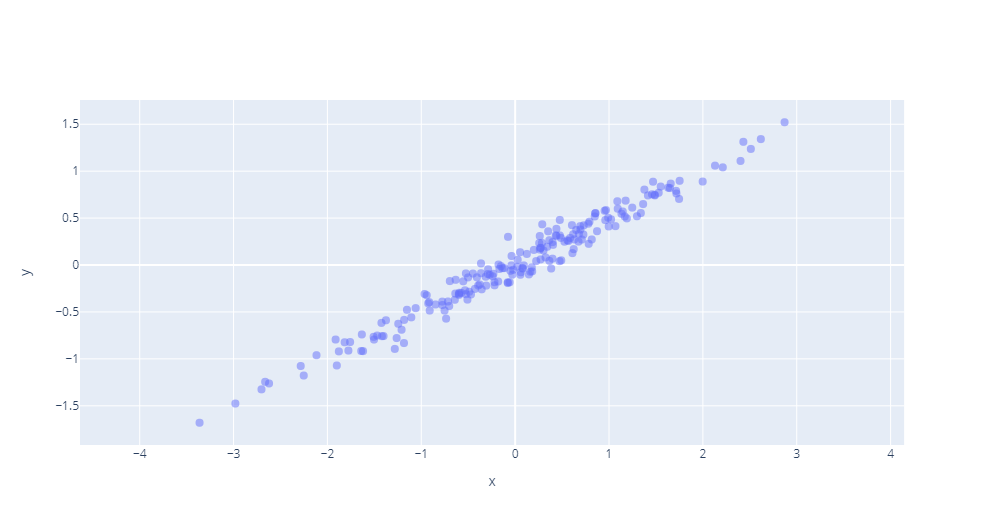
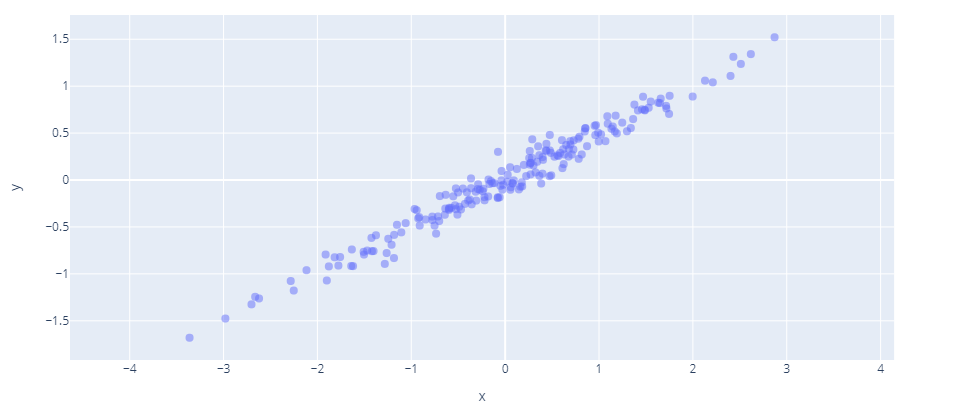
Add intro and crop imgs

diff --git a/Rapport.md b/Rapport.md
@@ -1,6 +1,12 @@
 # Reducing the Dimensionality of Data with Neural Networks
 
-by G. E. Hinton and R. R. Salakhutdinov
+
+
+<p style="text-align: center;">G. E. Hinton and R. R. Salakhutdinov</p>
+
+
+
+<p style="text-align: center;">Etude menée par DE SMET Enguerrand et FOUCHY Jules</p>
 
 ## Abstract
 
@@ -22,15 +28,21 @@ Enfin, nous allons comparer les résultats obtenus et conclure sur quelle est la
 
 ## Introduction
 
-**TODO**
+De nos jours, nous sommes amenés à manipuler toutes sortent de données. Que ce soit dans notre vie quotidienne via des photos par exemple ou alors dans un cadre professionnel pour de l'analyse et de la recherche par exemple.
+Toutes ces données peuvent parfois être conséquentes et nécessitent une compression avec le moins de perte possible pour leur stockage ou une synthèse de celles-ci afin être analysé efficacement et rapidement par la suite.
 
-- Presentation of the problem(s). 
+C'est tout l'enjeu de ce papier de recherche proposé par [G. E. Hinton et R. R. Salakhutdinov](www.cs.toronto.edu/~hinton/science.pdf)  sur la réduction de données et intitulé *"Reducing the Dimensionality of Data with Neural Networks"*.
 
-- Previous works (at least a few citations). If relevant, include things that you have seen during the lectures.
+Ce problème est un grand classique en analyse de données. De nombreuse approches s'attaquent à ce problème et l'une d'entre elles est l'***analyse en composantes principales***.
+Cette technique, largement utilisée, essaye de réduire le nombre de dimension des données analysées en changement la manière dont elles sont représentés et en appliquant une projection (avec perte) de celles-ci.
 
-- Contributions. Why is the studied method different/better/worse/etc. than existing previous works. 
+Cette technique très rapide et efficace s'avère néanmoins limités dans le cadre de fortes compressions où les pertes deviennent malheureusement trop conséquentes.
 
-  
+Des approches plus récentes utilisant des réseaux de neurones s'avèrent plus efficaces et permettent d'obtenir des ratios de compression remarquables. Cependant, ces approches nécessitent souvent un apprentissage long et ces architectures complexes ne fonctionnement bien que si leur état initial est proche d'une bonne solution.
+
+La solution proposée dans ce papier de recherche aborde le modèle des ***Restricted Boltzmann Machines***. Cette approche plus rapide va permettre de se rapprocher rapidement d'une bonne solution pour ensuite permettre à une architecture plus complexe (auto-encodeur) mais aussi plus efficace de converger vers une solution satisfaisante beaucoup plus rapidement.
+
+Nous allons dont détailler par la suite ces deux approches pour comparer les résultats obtenus et conclure sur efficacité de la méthode proposée par [G. E. Hinton et R. R. Salakhutdinov](www.cs.toronto.edu/~hinton/science.pdf) .
 
 <div style="page-break-after: always; break-after: page;"></div>
 
@@ -184,6 +196,8 @@ Dans notre cas 2D il était évident qu'une seule direction ou dimension était 
 Il y a plusieurs façons de faire ce choix. Il faudra généralement faire un compromis entre la précision et la vitesse de calcul. On peut par exemple exprimer sur un graphique la variance des données en fonction du nombre de composantes que l'on garde.
 
 Abordons pour finir cette partie sur l'ACP un exemple plus concret illustrant cette méthode de sélection et un cas "réel" d'application de l'ACP.
+
+<div style="page-break-after: always; break-after: page;"></div>
 
 ### Example: MNIST dataset
 
@@ -446,8 +460,6 @@ Ces RMBs sont ensuite utilisées dans l'autre sens (unfolding multicouche) pour 
 
 ![image-20210205113440207](imgs\RMBAutoEncoder.png)
 
-
-
 <div style="page-break-after: always; break-after: page;"></div>
 
 ## Comparaison et résultats
@@ -536,13 +548,17 @@ On peut citer quelques papiers de recherche qui abordent ces sujets :
 
 ## Bibliographie
 
-[G. E. Hinton* and R. R. Salakhutdinov]: https://www.cs.toronto.edu/~hinton/science.pdf	"Reducing the Dimensionality of Data with Neural Networks"
-[Luis Serrano]: https://www.youtube.com/watch?v=Fkw0_aAtwIw	"Restricted Boltzmann Machines - A friendly introduction"
-[3Blue1Brown]: https://www.youtube.com/watch?v=PFDu9oVAE-g	"Les vecteurs propres et valeurs propres"
+**G. E. Hinton* and R. R. Salakhutdinov:** [Reducing the Dimensionality of Data with Neural Networks](https://www.cs.toronto.edu/~hinton/science.pdf)
 
-[Geoffrey Hinton]: http://www.cs.toronto.edu/~hinton/absps/guideTR.pdf	"A Practical Guide to Training Restricted Boltzmann Machines"
-[Geoffrey E. Hinton and Simon Osindero]: http://www.cs.toronto.edu/~hinton/absps/fastnc.pdf	"A fast learning algorithm for deep belief nets"
-[Chris Nicholson]: https://wiki.pathmind.com/restricted-boltzmann-machine	"A Beginner's Guide to Restricted Boltzmann Machines"
+**Luis Serrano:** [Restricted Boltzmann Machines - A friendly introduction](https://www.youtube.com/watch?v=Fkw0_aAtwIw )
+
+**3Blue1Brown:** [Les vecteurs propres et valeurs propres](https://www.youtube.com/watch?v=PFDu9oVAE-g )
+
+**Geoffrey Hinton:** [A Practical Guide to Training Restricted Boltzmann Machines]( http://www.cs.toronto.edu/~hinton/absps/guideTR.pdf )
+
+**Geoffrey E. Hinton and Simon Osindero:** [A fast learning algorithm for deep belief nets](http://www.cs.toronto.edu/~hinton/absps/fastnc.pdf)
+
+**Chris Nicholson:** [A Beginner's Guide to Restricted Boltzmann Machines](https://wiki.pathmind.com/restricted-boltzmann-machine)
 
 <div style="page-break-after: always; break-after: page;"></div>
 
